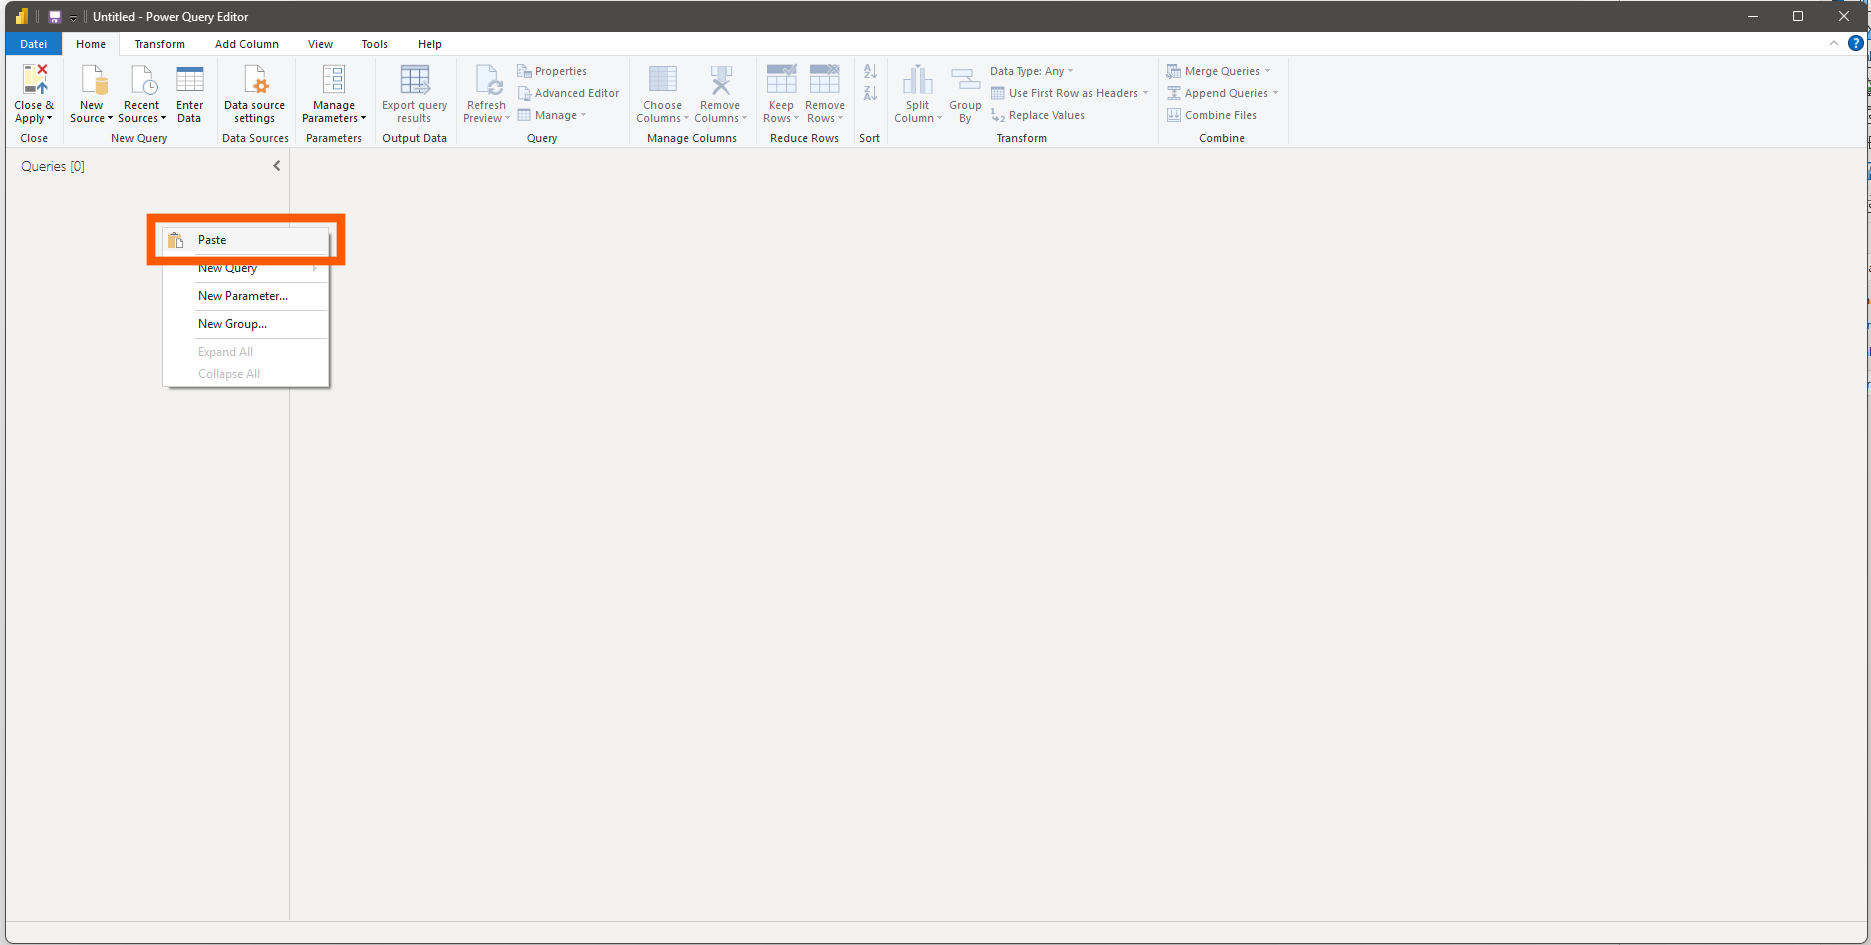
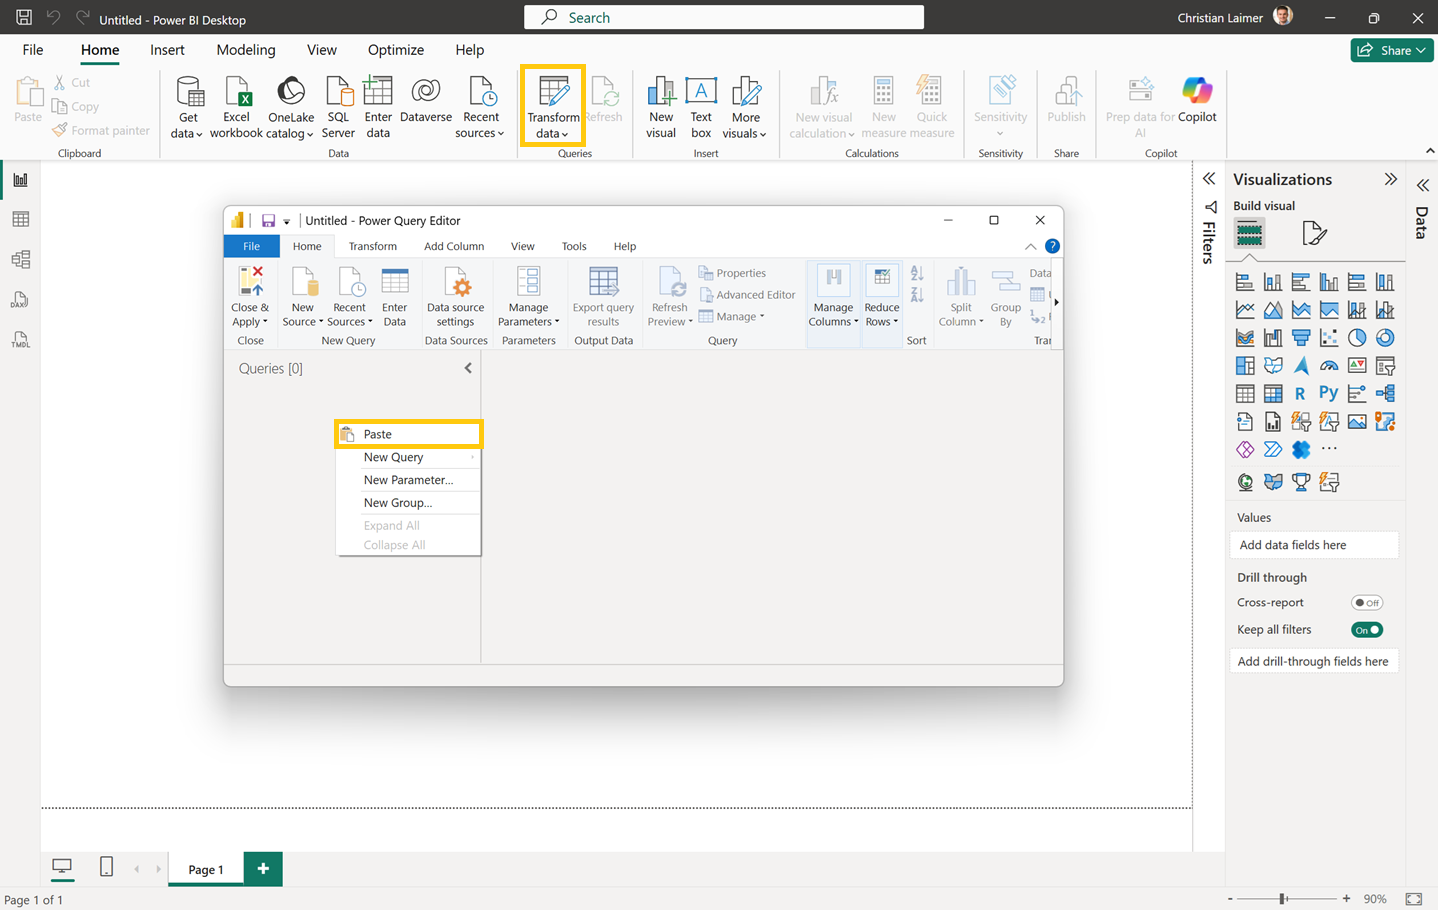
docs: revise Power BI deployment guidance

diff --git a/docs/ifc-viewer-installation-for-power-bi.md b/docs/ifc-viewer-installation-for-power-bi.md
@@ -1,68 +1,59 @@
 ---
-title: Install IFC Viewer Visual for Power BI
-description: Clear, step-by-step guide for installing and managing the IFC Viewer Visual for Power BI.
-keywords: Power BI, IFC Viewer, Installation, 3D, BIM, Visual
+title: Deploy IFC Viewer Visual for Power BI across your organization
+description: Learn how a Fabric administrator deploys IFC Viewer through organizational visuals or allows users to add it from AppSource.
+keywords: Power BI, IFC Viewer, organizational visuals, AppSource visuals, organization-wide deployment, Fabric administrator
 canonical_url: https://docs.flinker.app/docs/ifc-viewer-installation-for-power-bi.html
 ---
 
-# Install IFC Viewer Visual for Power BI
+# Deploy IFC Viewer Visual for Power BI across your organization
 
-## 1. Install IFC Viewer from Microsoft AppSource
-1. Go to the [IFC Viewer AppSource page](https://appsource.microsoft.com/en-us/product/power-bi-visuals/flinkergmbh1644589155747.ifc-viewer).
-2. Follow the **Steps to Use the IFC Viewer in Power BI**.
+Choose how users in your organization get the IFC Viewer Visual. You can deploy it centrally through organizational visuals or allow users to add it themselves from AppSource.
 
-## 2. Enable custom visual imports
+> [!IMPORTANT]
+> A Fabric administrator deploys the visual. For Enterprise licensing, report creators must [add the license key to the report](ifc-viewer-license-key-for-power-bi.md).
 
-Only required if your organization currently restricts importing custom visuals. If custom visuals are already allowed, you can skip this step entirely.
+## Option 1: Add IFC Viewer to organizational visuals
 
-1. Sign in as an administrator at [Power BI Admin Portal](https://app.powerbi.com/admin-portal).
-2. Under the **Tenant settings**, enable importing custom visuals from AppSource or file.
-3. After enabling, users will be able to directly install custom visuals, including the IFC Viewer.
+Use this option to approve the visual centrally and make it available in the Visualizations pane for everyone in your organization.
 
-![Allow Custom Visuals](/_media/allow-visuals-created-using-the-power-bi-sdk.png)
+1. Sign in to the [Fabric admin portal](https://app.fabric.microsoft.com/admin-portal).
+2. Select **Organizational visuals**.
+3. Select **Add visual** > **From AppSource**.
+4. Search for **Open IFC Viewer**.
+5. Confirm that the publisher is **Flinker GmbH**, and then select **Add**.
+6. Select the added visual, and then select **Enable for Visualization Pane**.
+7. Allow time for the change to reach users. Ask users who already have Power BI Desktop open to restart it.
 
+![Screenshot of adding the IFC Viewer from AppSource to organizational visuals](/_media/add-ifc-viewer-to-organizational-visuals.png)
 
-## 3. Add IFC Viewer to organizational visuals
-Optional step. Use only if you want to centrally deploy IFC Viewer so all users in your organization automatically have access without individual installations.
+<a id="2-enable-custom-visual-imports"></a>
 
-1. Sign in as an administrator at [Power BI Admin Portal](https://app.powerbi.com/admin-portal).
-2. Select **Admin portal** from the left menu.
-3. Click **Organizational visuals**.
-4. Choose **From AppSource**, search for **IFC Viewer**, and click **Add**.
+## Option 2: Allow users to add IFC Viewer from AppSource
 
-![Organizational Visuals Screenshot](/_media/add-ifc-viewer-to-organizational-visuals.png)
+Use this option if your organization wants to use IFC Viewer without adding it to organizational visuals.
 
-## 5. Permissions required by the IFC Viewer Visual
+1. Sign in to the [Fabric admin portal](https://app.fabric.microsoft.com/admin-portal).
+2. Select **Tenant settings** > **Power BI visuals**.
+3. Expand **Allow visuals created using the Power BI SDK**.
+4. Select **Enabled**.
+5. Choose the entire organization or the security groups that should be allowed to add AppSource visuals.
+6. Select **Apply**.
 
-The Flinker IFC Viewer Visual for Power BI requires the following permissions for optimal operation:
+![Screenshot of allowing visuals created with the Power BI SDK](/_media/allow-visuals-created-using-the-power-bi-sdk.png)
 
-- **Web Access:**  
-  The visual loads resources and assets from the following domains:
-  - `https://viewer.flinker.app/` (Flinker Viewer core)
-  - `https://docs.flinker.app/` (documentation/help)
-  - `https://api.flinker.app/` (Flinker API endpoints)
-  - `https://unpkg.com` (public JS/CDN resources)
-  - `https://api.simplesvg.com/` and `https://api.iconify.design/` (icons)
-  - `https://forms.office.com/` (for feedback or surveys)
+The tenant setting applies to the Power BI service. If your organization controls custom visuals in Power BI Desktop through Group Policy, allow them for the intended users there as well.
 
-- **Local Storage:**  
-  The visual uses your browser’s local storage to store settings or temporary data, improving your experience.
+Users can then [add IFC Viewer from AppSource](ifc-viewer-usage-for-power-bi.md#if-your-organization-has-not-deployed-the-visual).
 
-- **Export Content (optional):**  
-  Users can export content (such as images or SVGs) from the visual if this permission is enabled.
+## Get the Enterprise license key
 
-> [!NOTE]
-> The IFC Viewer Visual for Power BI **never transmits your actual report data, IFC model content, or sensitive business information to external servers**.  
-> All data displayed in the visual is processed locally within the Power BI session and is only accessible to authorized viewers in your workspace.  
-> Web access is strictly for loading assets, icons, and optional help/documentation.
+Authorized administrators can view the Enterprise license key in the [Flinker billing portal](https://billing.stripe.com/p/login/dRm9AS1Ue8he8sAfzhcZa00). Share the key with report creators through your organization's approved internal channel.
 
+## Verify the deployment
 
-## 6. Security and privacy
+1. Sign in to Power BI Desktop with a user account from your organization.
+2. For option 1, confirm that the IFC Viewer icon appears in the Visualizations pane.
+3. For option 2, confirm that the user can find **Open IFC Viewer** under **Get more visuals** > **AppSource visuals**.
+4. Add the visual to a test report and confirm that the IFC model loads.
 
-- All communications are encrypted (HTTPS).
-- **No project, IFC, or report data is ever sent to Flinker or any third party.**
-- The visual is suitable for enterprises with strict security and compliance requirements.
-- For further details, see the [Architecture and Data Protection Overview](https://docs.flinker.app/docs/ifc-viewer-architecture-and-data-protection.html).
-
-
-*Last updated: July 2025*
+For report configuration, see [Use the 3D IFC Viewer with Power BI](ifc-viewer-usage-for-power-bi.md). For the security review, see [Power BI architecture and data protection](ifc-viewer-power-bi-architecture-and-data-protection.md).

diff --git a/docs/ifc-viewer-power-bi-architecture-and-data-protection.md b/docs/ifc-viewer-power-bi-architecture-and-data-protection.md
@@ -1,0 +1,54 @@
+---
+title: IFC Viewer Visual for Power BI architecture and data protection
+description: Review data processing, external domains, permissions, and security controls for the IFC Viewer Visual for Power BI.
+keywords: Power BI, IFC Viewer, architecture, data protection, security, permissions, external domains
+canonical_url: https://docs.flinker.app/docs/ifc-viewer-power-bi-architecture-and-data-protection.html
+ms.date: 2026-07-20
+---
+
+# IFC Viewer Visual for Power BI architecture and data protection
+
+The IFC Viewer Visual is designed to keep IFC model content and report data within Power BI. Existing Power BI permissions continue to control access, while administrators retain control over external connections, browser storage, and exports.
+
+## Keep project data within Power BI
+
+- The visual processes IFC model content and report data within the Power BI client session.
+- IFC geometry, properties, and Power BI report datasets are not sent to Flinker for model processing.
+- Your Power BI workspace, semantic model, and source permissions continue to control access to reports and data.
+- HTTPS protects connections to external services.
+
+Flinker may receive limited technical metadata required for licensing, support, and anonymized usage analytics. This metadata can include the tenant ID and, when required, the user's email address. It does not include IFC content, model geometry, project documents, or Power BI dataset values. For details, see [Architecture and data protection](ifc-viewer-architecture-and-data-protection.md#transmission-of-technical-metadata).
+
+## Use controlled external connections
+
+The visual uses a defined set of external domains for viewer resources, licensing, help, and optional feedback. If your organization filters browser traffic, review these domains:
+
+| Domain | Purpose |
+|---|---|
+| `viewer.flinker.app` | Loads the Flinker viewer core and static assets. |
+| `api.flinker.app` | Provides Flinker API and licensing services. |
+| `docs.flinker.app` | Opens product documentation and help. |
+| `unpkg.com` | Loads public JavaScript and CDN resources. |
+| `api.simplesvg.com` | Loads interface icons. |
+| `api.iconify.design` | Loads interface icons. |
+| `forms.office.com` | Opens optional feedback forms and surveys. |
+
+Static resource requests do not include IFC model content or Power BI dataset values. This separation allows the visual to load its interface and services without transferring project data for model processing.
+
+## Retain administrator control
+
+| Capability | Use |
+|---|---|
+| External service access | Loads viewer assets, API services, icons, documentation, and optional feedback forms. |
+| Browser local storage | Stores visual settings or temporary data in the user's browser. |
+| Content export | Allows users to export supported content, such as images or SVG files, when downloads from custom visuals are enabled. |
+
+Administrators manage browser local storage and custom visual downloads under **Tenant settings** > **Power BI visuals** in the Fabric admin portal. These controls let you align the visual with your organization's security and data-export policies.
+
+## Security benefits
+
+- IFC model content and report datasets remain under your Power BI and Microsoft 365 governance controls.
+- Flinker does not host IFC model files, project documents, or Power BI report datasets.
+- Existing Power BI workspace and source permissions determine who can access each report and its data.
+- External connections use HTTPS and have specific, documented purposes.
+- Fabric tenant settings provide central control over browser storage and supported exports.

diff --git a/docs/ifc-viewer-usage-for-power-bi.md b/docs/ifc-viewer-usage-for-power-bi.md
@@ -107,13 +107,33 @@ If you already have an empty Power BI report or an existing report and want to i
   Click [here](#folder-loading) to learn how to point and load multiple IFC files from a folder.
 7. Click **Close & Apply** to save the changes and load the data into your report.
 
-### 3. Add the IFC Viewer Visual from AppSource
+<a id="3-add-the-ifc-viewer-visual-from-appsource"></a>
 
-1. In Power BI Desktop, go to the Visualizations pane and click on **Get more visuals (… )** to search the IFC Viewer visual in the AppSource and add the IFC Viewer visual to your report.
+### 3. Add the IFC Viewer Visual
 
-![Add IFC Flinker IFC Visual to Blank Report](/_media/add-ifc-flinker-ifc-visual-to-blank-report.png)
-2. Once added, find the IFC Viewer icon in the Visualizations pane and click it to add the visual to your report canvas.
-### 3. Bind the required fields to the IFC Viewer visual
+Use the option that matches your organization's deployment.
+
+In the **Visualizations** pane, select the ellipsis (**...**), and then select **Get more visuals**.
+
+![Screenshot of selecting Get more visuals in the Power BI Visualizations pane](/_media/power-bi-get-more-visuals.png)
+
+#### If your organization deployed the visual
+
+1. Select **My organization**.
+2. Find **Open IFC Viewer**, and then select **Add**.
+
+#### If your organization has not deployed the visual
+
+1. Select **AppSource visuals**.
+2. Search for **Open IFC Viewer** from **Flinker GmbH**, and then select **Add**.
+
+![Screenshot of adding the Flinker IFC Viewer Visual from AppSource](/_media/add-ifc-flinker-ifc-visual-to-blank-report.png)
+
+If AppSource visuals are unavailable, ask your Fabric administrator to [deploy the IFC Viewer Visual for your organization](ifc-viewer-installation-for-power-bi.md).
+
+After adding the visual, select the IFC Viewer icon in the **Visualizations** pane to add it to the report canvas.
+
+### 4. Bind the required fields to the IFC Viewer visual
 
 - Drag and drop the `IFC Chunks` field from your `IFC` query table to the **IFC Chunks** data field of the IFC Viewer visual. This field contains the binary or text data representing the IFC model and is essential for rendering the 3D model in the viewer.
 
@@ -124,7 +144,7 @@ If you already have an empty Power BI report or an existing report and want to i
 
 ![Bind IFC query fields to IFC Viewer Visual for Power BI data fields](/_media/bind-ifc-query-fields-to-power-bi-visuals-data-fields.png)
 
-### 4. Optional: Link IFC Data to your existing data
+### 5. Optional: Link IFC data to your existing data
 
 1. In the **Model** view, select your existing data table.
 2. Click **Manage Relationships** > **New**.

diff --git a/docs/ifc-viewer-license-key-for-power-bi.md b/docs/ifc-viewer-license-key-for-power-bi.md
@@ -1,17 +1,17 @@
 ---
-title: Activate IFC Viewer Visual for Power BI with a license key
-description: Step-by-step instructions to enter your Flinker Pro or Premium license key in the IFC Viewer Visual for Power BI.
-keywords: Power BI, IFC Viewer, license key, activation, Flinker
+title: Add an Enterprise license key to IFC Viewer Visual for Power BI
+description: Learn how to add a Flinker Enterprise tenant license key to the IFC Viewer Visual for Power BI.
+keywords: Power BI, IFC Viewer, Enterprise license key, tenant license, activation, Flinker
 canonical_url: https://docs.flinker.app/docs/ifc-viewer-license-key-for-power-bi.html
 ---
 
-# Activate IFC Viewer Visual for Power BI with a license key
+# Add an Enterprise license key to IFC Viewer Visual for Power BI
 
-Unlock advanced features in the IFC Viewer Visual for Power BI by activating your visual with a Flinker Pro or Premium license key. Entering your license key enables enhanced capabilities and premium tools within your Power BI reports. Follow this guide to learn when a license key is required and how to add it to your reports.
+Use this procedure if your organization has selected Enterprise in the [Power BI IFC Viewer pricing and plans](https://flinker.app/products/power-bi-ifc-viewer/#pricing-title) and received a tenant license key from Flinker. Entering your license key enables enhanced capabilities within your Power BI reports.
 
-## Get your license key
+## Get your Enterprise license key
 
-New Flinker Pro and Premium subscribers receive their key by email after purchase.
+Get the Enterprise license key from your organization's administrator. Administrators can [retrieve the key from the billing portal](ifc-viewer-installation-for-power-bi.md#get-the-enterprise-license-key).
 
 > [!NOTE]
 > License keys are bound to your subscription. Contact Flinker support again if you need to move the key to another tenant or if it should be revoked.
@@ -21,9 +21,12 @@ New Flinker Pro and Premium subscribers receive their key by email after purchas
 1. Open the report in Power BI Desktop and select the **IFC Viewer** visual.
 2. In the **Visualizations** pane, switch to **Format visual**.
 3. Expand **License** > **Activation** and paste the key into **License key**.
-4. The visual reloads and activates the Pro or Premium features.
+4. The visual reloads and activates the Enterprise tenant license.
 
 ![Enter the license key in the Format visual pane](/_media/set-license-key-in-power-bi-visual.png)
+
+> [!NOTE]
+> Enter the Enterprise license key for every new IFC Viewer visual that you add to a report.
 
 ## Publish to the Power BI service
 

diff --git a/docs/getting-started.md b/docs/getting-started.md
@@ -42,6 +42,6 @@ Start with the path that matches your role and rollout goal.
 
 - [Set up IFC Viewer in SharePoint](viewer-app-installation-with-admin-approval.md)
 - [Set up IFC Viewer in Microsoft Teams](setting-up-the-ifc-viewer-in-microsoft-teams.md)
-- [Install IFC Viewer Visual for Power BI](ifc-viewer-installation-for-power-bi.md)
+- [Deploy IFC Viewer Visual for Power BI across your organization](ifc-viewer-installation-for-power-bi.md)
 - [Install ISO 19650](installation.md)
 - [Review release notes](releases.md)

diff --git a/docs/it-admin-quickstart.md b/docs/it-admin-quickstart.md
@@ -26,7 +26,7 @@ The components are independent from each other. Install only the components requ
 | IFC Viewer for SharePoint Online | Embed IFC model viewing in SharePoint Online pages and document libraries. | SharePoint Administrator installs the SPFx package in the SharePoint App Catalog, configures the trusted script source, and approves the app through the SharePoint App Catalog or Microsoft AppSource. [Installation guide](./viewer-app-installation-with-admin-approval.md) |
 | IFC File Handler for SharePoint Online and OneDrive for work or school | Open IFC files from SharePoint Online or OneDrive for work or school by clicking the file name. | Global Administrator or Application Administrator grants Microsoft Entra ID admin consent for the required file access permissions. [Installation guide](./ifc-file-handler-for-sharepoint.md) |
 | IFC Viewer for Microsoft Teams | Embed IFC and BCF model viewing in Microsoft Teams channels and group chats. | Teams Administrator approves and deploys the Teams app with an app setup policy or team template. Global Administrator or Application Administrator grants Microsoft Entra ID admin consent for the required file access permissions. [Installation guide](./setting-up-the-ifc-viewer-in-microsoft-teams.md) |
-| IFC Viewer Visual for Power BI | Display IFC models inside Microsoft Power BI reports with a custom visual. | Fabric Administrator or Power BI Administrator adds the visual as an organizational visual, or allows installation through tenant settings in the Microsoft Fabric Admin Portal or Power BI tenant settings. [Installation guide](./ifc-viewer-installation-for-power-bi.md) |
+| IFC Viewer Visual for Power BI | Display IFC models inside Microsoft Power BI reports with a custom visual. | Fabric Administrator adds the visual to organizational visuals or allows report creators to add it from AppSource through tenant settings. [Deployment guide](./ifc-viewer-installation-for-power-bi.md) |
 
 ## Data protection
 